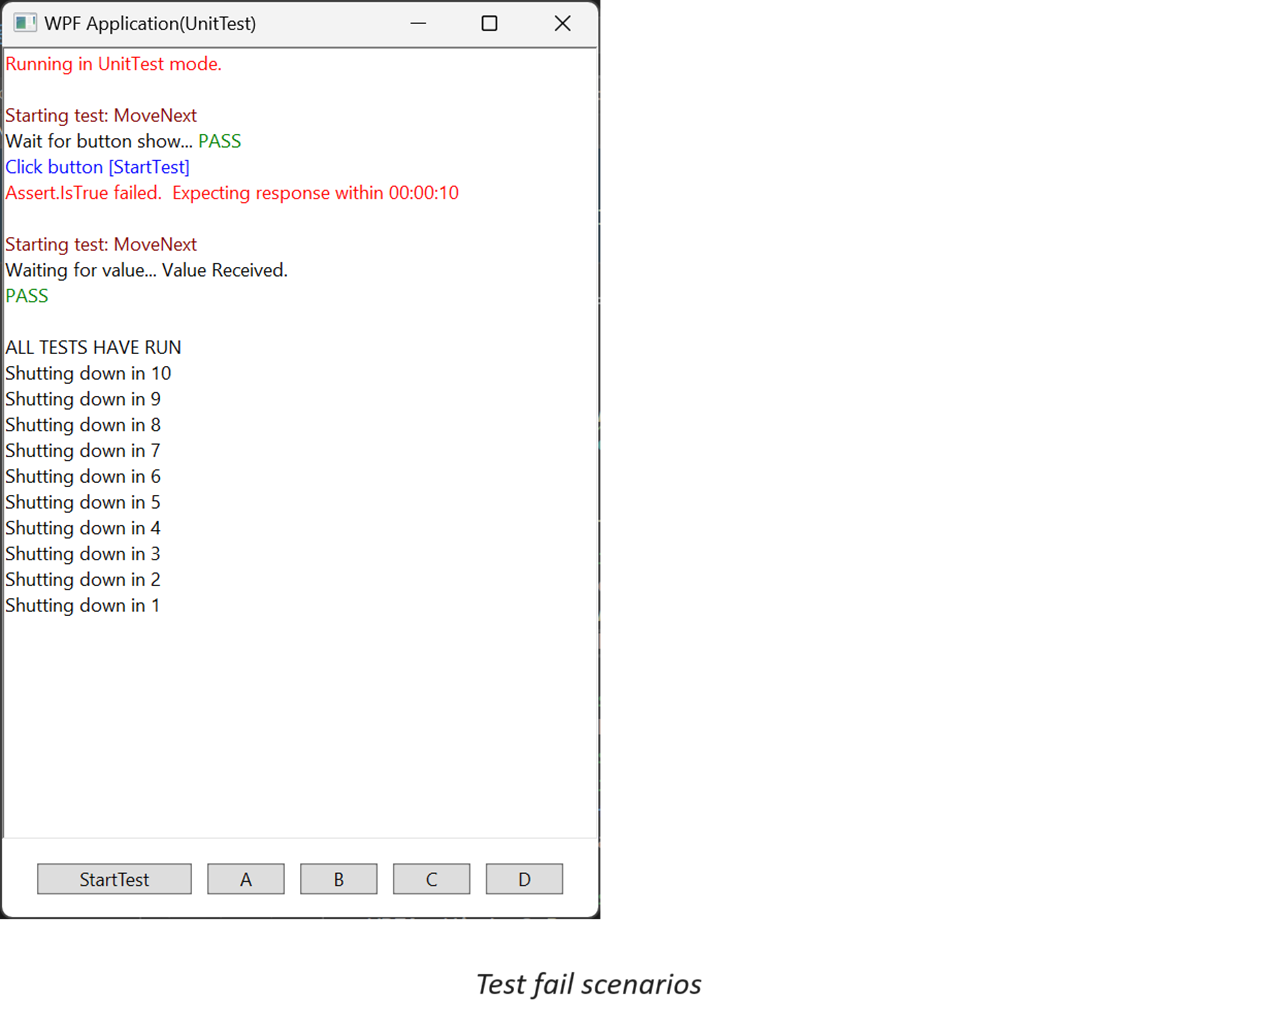
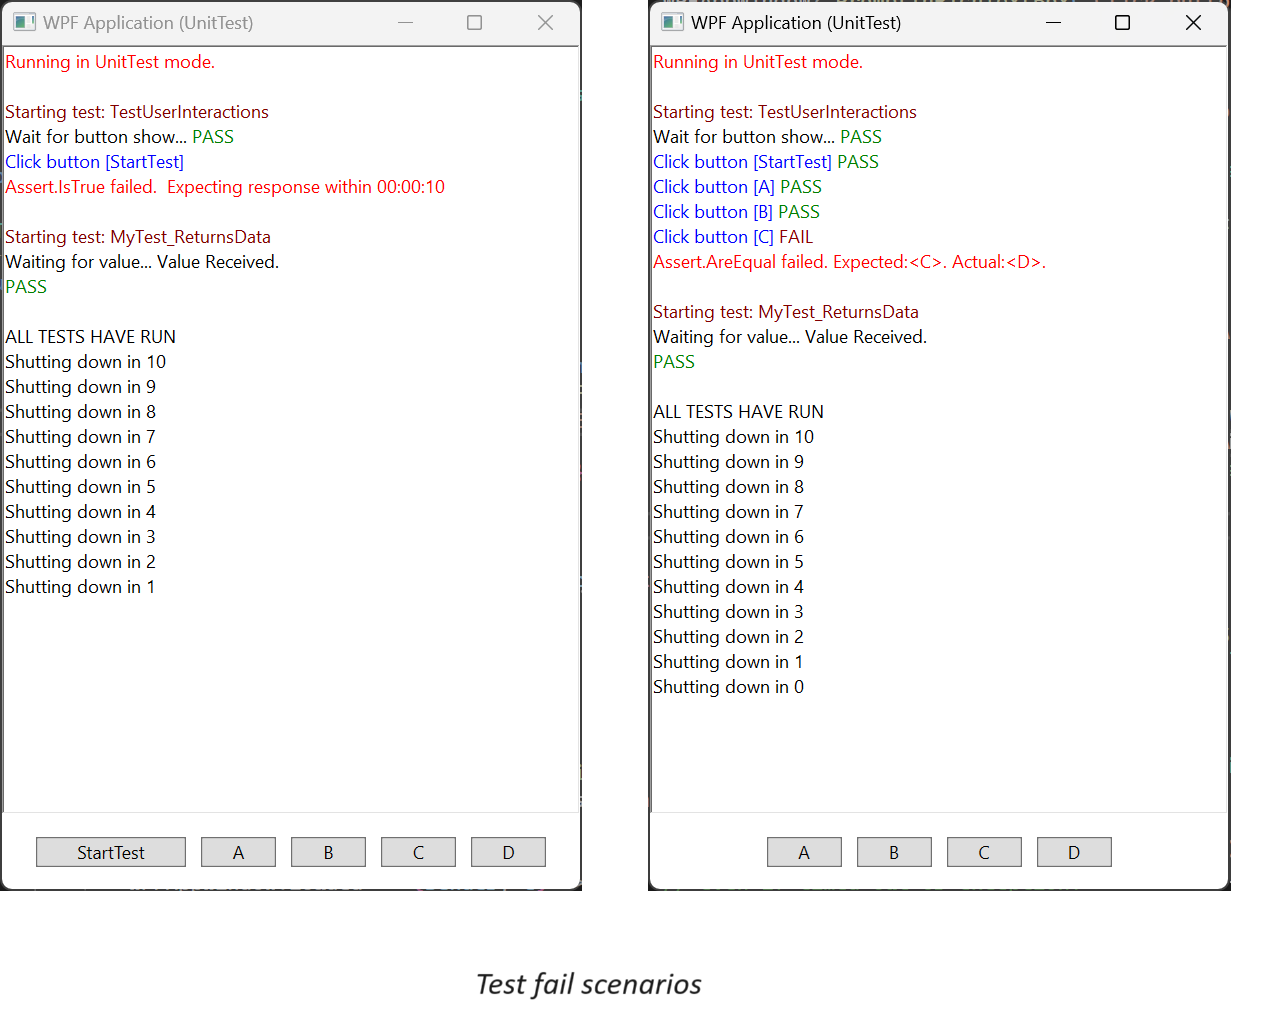
LBF the `CallSomeAsyncVoidMethod()` needs to `BeginInvoke`

diff --git a/MSTest.Async.Demo/UnitTestWPF.cs b/MSTest.Async.Demo/UnitTestWPF.cs
@@ -15,7 +15,8 @@ namespace MSTest.Async.Demo
         private static MainWindow? WPFAppWindow;
         private static SemaphoreSlim _uiKeepAlive = new SemaphoreSlim(0, 1);
         private static TimeSpan TIME_OUT = TimeSpan.FromSeconds(10);
-        private static string TIME_OUT_MESSAGE = $" Expecting response within {TIME_OUT}";
+        private static string TIME_OUT_MESSAGE = $" Expecting response within {TIME_OUT}"; 
+        public TestContext? TestContext { get; set; }
 
         [ClassInitialize]
         public static async Task InitUI(TestContext context)
@@ -46,6 +47,14 @@ namespace MSTest.Async.Demo
         }
         static CancellationTokenSource _cts = new CancellationTokenSource();
 
+        [TestInitialize]
+        public void TestInitialize()
+        {
+            PromptInUI(
+                $"{Environment.NewLine}Starting test: {TestContext.TestName}",
+                Color.Maroon);
+        }
+
         /// <summary>
         /// In this test method, we will wait for user to click buttons. 
         /// Since the test routine doesn't actually initiate the button clicks 
@@ -69,26 +78,26 @@ namespace MSTest.Async.Demo
                 localCompare("Visible", actual);
 
                 // This block demos the CancellationToken called if user closes window early.
-                PromptInUI("Click button [StartTest]", Color.Blue);
+                PromptInUI("Click button [StartTest]", Color.Blue, newline: false);
                 // When user clicks StartTest, it hides the StartTest button.
                 // App fires OnAwaited when Visibility property of button changes. 
                 Assert.IsTrue(await awaiter.WaitAsync(TIME_OUT, cancellationToken: _cts.Token), TIME_OUT_MESSAGE);
                 localCompare("Collapsed", actual);
 
                 // When user clicks A, B, C or D, the Click handler fires OnAwaited
-                WPFAppWindow?.PromptInRichTextBox("Click button [A]", newline: false);
+                WPFAppWindow?.PromptInRichTextBox("Click button [A]", Color.Blue, newline: false);
                 await awaiter.WaitAsync(TIME_OUT);
                 localCompare("A", actual);
 
-                WPFAppWindow?.PromptInRichTextBox("Click button [B]", newline: false);
+                WPFAppWindow?.PromptInRichTextBox("Click button [B]", Color.Blue, newline: false);
                 await awaiter.WaitAsync(TIME_OUT);
                 localCompare("B", actual);
 
-                WPFAppWindow?.PromptInRichTextBox("Click button [C]", newline: false);
+                WPFAppWindow?.PromptInRichTextBox("Click button [C]", Color.Blue, newline: false);
                 await awaiter.WaitAsync(TIME_OUT);
                 localCompare("C", actual);
 
-                WPFAppWindow?.PromptInRichTextBox("Click button [D]", newline: false);
+                WPFAppWindow?.PromptInRichTextBox("Click button [D]", Color.Blue, newline: false);
                 await awaiter.WaitAsync(TIME_OUT);
                 localCompare("D", actual);
 
@@ -107,6 +116,10 @@ namespace MSTest.Async.Demo
             }
             catch(AssertFailedException ex)
             {
+                if(ex.Message.Contains("expecting response", StringComparison.OrdinalIgnoreCase))
+                {
+                    PromptInUI(string.Empty);
+                }
                 PromptInUI($"{ex.Message}", Color.Red);
             }
             finally

diff --git a/wpf-app-test-async-void-methods/MainWindow.xaml.cs b/wpf-app-test-async-void-methods/MainWindow.xaml.cs
@@ -66,10 +66,13 @@ namespace wpf_app_test_async_void_methods
         protected override void OnPropertyChanged(DependencyPropertyChangedEventArgs e)
         {
             base.OnPropertyChanged(e);
-            this.OnAwaited(new AwaitedEventArgs(args: new Dictionary<string, object>
+            if (DataContext?.RuntimeMode == RuntimeMode.UnitTest)
             {
-                { nameof(DependencyPropertyChangedEventArgs), e }
-            }));
+                this.OnAwaited(new AwaitedEventArgs(args: new Dictionary<string, object>
+                {
+                    { nameof(DependencyPropertyChangedEventArgs), e }
+                }));
+            }
         }
         RichTextBox RichTextBox => (RichTextBox)RichTextBoxHost.Child;
 
@@ -82,11 +85,13 @@ namespace wpf_app_test_async_void_methods
             Dispatcher.BeginInvoke(()=>
                 buttonStartTest.Visibility = Visibility.Visible);
         }
+
         public async void CallSomeAsyncVoidMethod()
         {
             // Demonstration only
             await Task.Delay(TimeSpan.FromSeconds(2.5));
-            MyTargetProperty = "MyExpectedValue";
+            await Dispatcher.BeginInvoke(() =>
+                MyTargetProperty = "MyExpectedValue");
         }
         public string MyTargetProperty
         {
